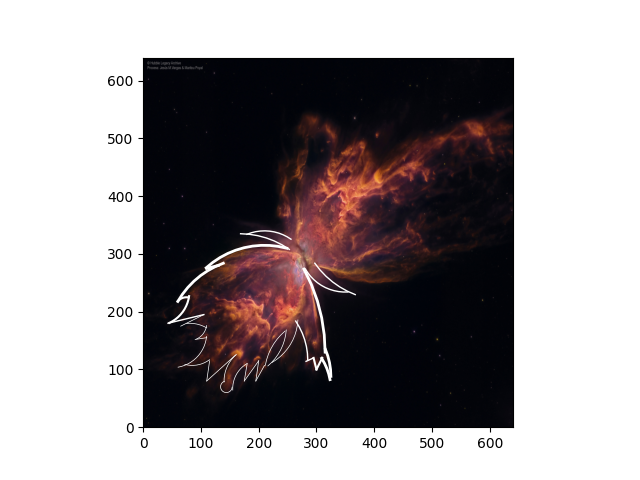
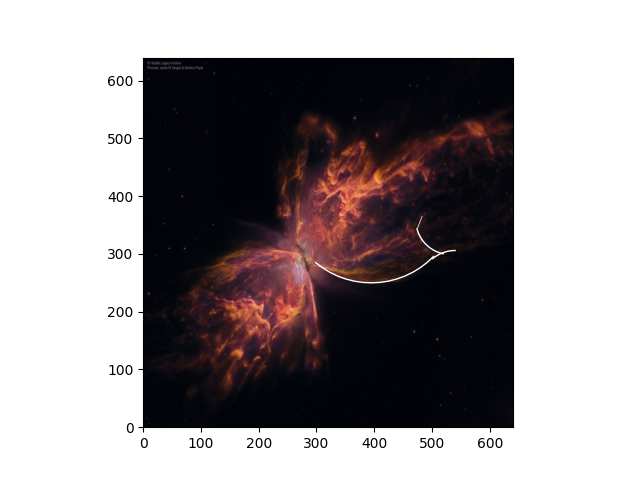
[poiuytred

diff --git a/stage_1/slide_3_paint_on_image.py b/stage_1/slide_3_paint_on_image.py
@@ -12,133 +12,161 @@ def circle(R, x0, y0, starst, stop, step):
     y = y0 + R * np.sin(t)
     return x, y
 
-coords = circle(150, 420, 370, 43*np.pi/36, 25*np.pi/18, 0.1) #нижняя верхняя часть
+#правое крыло
+
+plt.plot([475, 483], [345, 365], lw=0.5, color='w')
+plt.savefig('slide_2_paint_image.png')
+
+
+
+
+
+
+
+
+
+coords = circle(60, 532, 359, 13*np.pi/12, 13*np.pi/9, 0.1)
 plt.plot(coords[0], coords[1], lw=1, color='w')
 plt.savefig('slide_2_paint_image.png')
 
-coords = circle(80, 350, 314, 7*np.pi/6, 55*np.pi/36, 0.1) #нижняя нижняя часть
+coords = circle(60, 540, 246, np.pi/2, 3*np.pi/4, 0.1)
 plt.plot(coords[0], coords[1], lw=1, color='w')
 plt.savefig('slide_2_paint_image.png')
 
-coords = circle(150, 167, 185, 11*np.pi/36, 19*np.pi/36, 0.1) #верхняя нижняя часть
+coords = circle(150, 395, 400, 23*np.pi/18, 16*np.pi/9, 0.1)
 plt.plot(coords[0], coords[1], lw=1, color='w')
 plt.savefig('slide_2_paint_image.png')
 
-coords = circle(80, 210, 260, 11*np.pi/36, 23*np.pi/36, 0.1) #верхняя верхняя часть
-plt.plot(coords[0], coords[1], lw=1, color='w')
-plt.savefig('slide_2_paint_image.png')
 
-# #левое крыло
-coords = circle(300, 15, 130, 0, np.pi/6, 0.1)
-plt.plot(coords[0], coords[1], lw=2, color='w')
-plt.savefig('slide_2_paint_image.png')
 
-coords = circle(120, 205, 88, 0, 5*np.pi/36, 0.1)
-plt.plot(coords[0], coords[1], lw=2, color='w')
-plt.savefig('slide_2_paint_image.png')
 
-coords = circle(100, 225, 65, np.pi/18, 7*np.pi/36, 0.1)
-plt.plot(coords[0], coords[1], lw=2, color='w')
-plt.savefig('slide_2_paint_image.png')
+# coords = circle(150, 420, 370, 43*np.pi/36, 25*np.pi/18, 0.1) #нижняя верхняя часть
+# plt.plot(coords[0], coords[1], lw=1, color='w')
+# plt.savefig('slide_2_paint_image.png')
 
-plt.plot([300, 310], [100, 120], lw=1.5, color='w')
-plt.savefig('slide_2_paint_image.png')
+# coords = circle(80, 350, 314, 7*np.pi/6, 55*np.pi/36, 0.1) #нижняя нижняя часть
+# plt.plot(coords[0], coords[1], lw=1, color='w')
+# plt.savefig('slide_2_paint_image.png')
 
-plt.plot([295, 300], [120, 100], lw=1.5, color='w')
-plt.savefig('slide_2_paint_image.png')
+# coords = circle(150, 167, 185, 11*np.pi/36, 19*np.pi/36, 0.1) #верхняя нижняя часть
+# plt.plot(coords[0], coords[1], lw=1, color='w')
+# plt.savefig('slide_2_paint_image.png')
 
-plt.plot([282, 295], [114, 120], lw=1, color='w')
-plt.savefig('slide_2_paint_image.png')
+# coords = circle(80, 210, 260, 11*np.pi/36, 23*np.pi/36, 0.1) #верхняя верхняя часть
+# plt.plot(coords[0], coords[1], lw=1, color='w')
+# plt.savefig('slide_2_paint_image.png')
 
-coords = circle(120, 165, 116, 0, 7*np.pi/36, 0.1)
-plt.plot(coords[0], coords[1], lw=1, color='w')
-plt.savefig('slide_2_paint_image.png')
+# # #левое крыло
+# coords = circle(300, 15, 130, 0, np.pi/6, 0.1)
+# plt.plot(coords[0], coords[1], lw=2, color='w')
+# plt.savefig('slide_2_paint_image.png')
 
-coords = circle(90, 178, 190, 5*np.pi/3, 2*np.pi, 0.1)
-plt.plot(coords[0], coords[1], lw=0.5, color='w')
-plt.savefig('slide_2_paint_image.png')
+# coords = circle(120, 205, 88, 0, 5*np.pi/36, 0.1)
+# plt.plot(coords[0], coords[1], lw=2, color='w')
+# plt.savefig('slide_2_paint_image.png')
 
-coords = circle(90, 158, 175, 31*np.pi/18, 2*np.pi, 0.1)
-plt.plot(coords[0], coords[1], lw=0.5, color='w')
-plt.savefig('slide_2_paint_image.png')
+# coords = circle(100, 225, 65, np.pi/18, 7*np.pi/36, 0.1)
+# plt.plot(coords[0], coords[1], lw=2, color='w')
+# plt.savefig('slide_2_paint_image.png')
 
-coords = circle(100, 310, 90, 13*np.pi/18, 35*np.pi/36, 0.1)
-plt.plot(coords[0], coords[1], lw=0.5, color='w')
-plt.savefig('slide_2_paint_image.png')
+# plt.plot([300, 310], [100, 120], lw=1.5, color='w')
+# plt.savefig('slide_2_paint_image.png')
 
-plt.plot([195, 210], [80, 107], lw=0.5, color='w')
-plt.savefig('slide_2_paint_image.png')
+# plt.plot([295, 300], [120, 100], lw=1.5, color='w')
+# plt.savefig('slide_2_paint_image.png')
 
-plt.plot([200, 195], [115, 80], lw=0.5, color='w')
-plt.savefig('slide_2_paint_image.png')
+# plt.plot([282, 295], [114, 120], lw=1, color='w')
+# plt.savefig('slide_2_paint_image.png')
 
-plt.plot([175, 200], [80, 115], lw=0.5, color='w')
-plt.savefig('slide_2_paint_image.png')
+# coords = circle(120, 165, 116, 0, 7*np.pi/36, 0.1)
+# plt.plot(coords[0], coords[1], lw=1, color='w')
+# plt.savefig('slide_2_paint_image.png')
 
-plt.plot([180, 175], [110, 80], lw=0.5, color='w')
-plt.savefig('slide_2_paint_image.png')
+# coords = circle(90, 178, 190, 5*np.pi/3, 2*np.pi, 0.1)
+# plt.plot(coords[0], coords[1], lw=0.5, color='w')
+# plt.savefig('slide_2_paint_image.png')
 
-coords = circle(10, 144, 70, 11*np.pi/18, 2*np.pi, 0.1)
-plt.plot(coords[0], coords[1], lw=0.5, color='w')
-plt.savefig('slide_2_paint_image.png')
+# coords = circle(90, 158, 175, 31*np.pi/18, 2*np.pi, 0.1)
+# plt.plot(coords[0], coords[1], lw=0.5, color='w')
+# plt.savefig('slide_2_paint_image.png')
 
-coords = circle(50, 205, 67, 2*np.pi/3, 37*np.pi/36, 0.1)
-plt.plot(coords[0], coords[1], lw=0.5, color='w')
-plt.savefig('slide_2_paint_image.png')
+# coords = circle(100, 310, 90, 13*np.pi/18, 35*np.pi/36, 0.1)
+# plt.plot(coords[0], coords[1], lw=0.5, color='w')
+# plt.savefig('slide_2_paint_image.png')
 
-coords = circle(60, 200, 80, 13*np.pi/18, 37*np.pi/36, 0.1)
-plt.plot(coords[0], coords[1], lw=0.5, color='w')
-plt.savefig('slide_2_paint_image.png')
+# plt.plot([195, 210], [80, 107], lw=0.5, color='w')
+# plt.savefig('slide_2_paint_image.png')
 
-plt.plot([110, 160], [80, 125], lw=0.5, color='w')
-plt.savefig('slide_2_paint_image.png')
+# plt.plot([200, 195], [115, 80], lw=0.5, color='w')
+# plt.savefig('slide_2_paint_image.png')
 
-plt.plot([115, 110], [115, 80], lw=0.5, color='w')
-plt.savefig('slide_2_paint_image.png')
+# plt.plot([175, 200], [80, 115], lw=0.5, color='w')
+# plt.savefig('slide_2_paint_image.png')
 
-coords = circle(50, 85, 157, 17*np.pi/12, 31*np.pi/18, 0.1)
-plt.plot(coords[0], coords[1], lw=0.5, color='w')
-plt.savefig('slide_2_paint_image.png')
+# plt.plot([180, 175], [110, 80], lw=0.5, color='w')
+# plt.savefig('slide_2_paint_image.png')
 
-coords = circle(60, 50, 163, 14*np.pi/9, 71*np.pi/36, 0.1)
-plt.plot(coords[0], coords[1], lw=0.5, color='w')
-plt.savefig('slide_2_paint_image.png')
+# coords = circle(10, 144, 70, 11*np.pi/18, 2*np.pi, 0.1)
+# plt.plot(coords[0], coords[1], lw=0.5, color='w')
+# plt.savefig('slide_2_paint_image.png')
 
-plt.plot([90, 110], [152, 155], lw=0.5, color='w')
-plt.savefig('slide_2_paint_image.png')
+# coords = circle(50, 205, 67, 2*np.pi/3, 37*np.pi/36, 0.1)
+# plt.plot(coords[0], coords[1], lw=0.5, color='w')
+# plt.savefig('slide_2_paint_image.png')
 
-coords = circle(30, 80, 180, 59*np.pi/36, 71*np.pi/36, 0.1)
-plt.plot(coords[0], coords[1], lw=0.5, color='w')
-plt.savefig('slide_2_paint_image.png')
+# coords = circle(60, 200, 80, 13*np.pi/18, 37*np.pi/36, 0.1)
+# plt.plot(coords[0], coords[1], lw=0.5, color='w')
+# plt.savefig('slide_2_paint_image.png')
 
-coords = circle(60, 80, 120, np.pi/3, 5*np.pi/9, 0.1)
-plt.plot(coords[0], coords[1], lw=0.5, color='w')
-plt.savefig('slide_2_paint_image.png')
+# plt.plot([110, 160], [80, 125], lw=0.5, color='w')
+# plt.savefig('slide_2_paint_image.png')
 
-plt.plot([105, 65], [195, 175], lw=0.5, color='w')
-plt.savefig('slide_2_paint_image.png')
+# plt.plot([115, 110], [115, 80], lw=0.5, color='w')
+# plt.savefig('slide_2_paint_image.png')
 
-plt.plot([43, 105], [180, 195], lw=1, color='w')
-plt.savefig('slide_2_paint_image.png')
+# coords = circle(50, 85, 157, 17*np.pi/12, 31*np.pi/18, 0.1)
+# plt.plot(coords[0], coords[1], lw=0.5, color='w')
+# plt.savefig('slide_2_paint_image.png')
 
-coords = circle(60, 20, 235, 59*np.pi/36, 71*np.pi/36, 0.1)
-plt.plot(coords[0], coords[1], lw=1.5, color='w')
-plt.savefig('slide_2_paint_image.png')
+# coords = circle(60, 50, 163, 14*np.pi/9, 71*np.pi/36, 0.1)
+# plt.plot(coords[0], coords[1], lw=0.5, color='w')
+# plt.savefig('slide_2_paint_image.png')
 
-coords = circle(20, 75, 205, 4*np.pi/9, 7*np.pi/9, 0.1)
-plt.plot(coords[0], coords[1], lw=1.5, color='w')
-plt.savefig('slide_2_paint_image.png')
+# plt.plot([90, 110], [152, 155], lw=0.5, color='w')
+# plt.savefig('slide_2_paint_image.png')
 
-coords = circle(150, 190, 143, 11*np.pi/18, 31*np.pi/36, 0.1)
-plt.plot(coords[0], coords[1], lw=2, color='w')
-plt.savefig('slide_2_paint_image.png')
+# coords = circle(30, 80, 180, 59*np.pi/36, 71*np.pi/36, 0.1)
+# plt.plot(coords[0], coords[1], lw=0.5, color='w')
+# plt.savefig('slide_2_paint_image.png')
 
-plt.plot([110, 130], [275, 280], lw=2, color='w')
-plt.savefig('slide_2_paint_image.png')
+# coords = circle(60, 80, 120, np.pi/3, 5*np.pi/9, 0.1)
+# plt.plot(coords[0], coords[1], lw=0.5, color='w')
+# plt.savefig('slide_2_paint_image.png')
 
-coords = circle(150, 210, 165, 5*np.pi/12, 3*np.pi/4, 0.1)
-plt.plot(coords[0], coords[1], lw=2, color='w')
-plt.savefig('slide_2_paint_image.png')
+# plt.plot([105, 65], [195, 175], lw=0.5, color='w')
+# plt.savefig('slide_2_paint_image.png')
+
+# plt.plot([43, 105], [180, 195], lw=1, color='w')
+# plt.savefig('slide_2_paint_image.png')
+
+# coords = circle(60, 20, 235, 59*np.pi/36, 71*np.pi/36, 0.1)
+# plt.plot(coords[0], coords[1], lw=1.5, color='w')
+# plt.savefig('slide_2_paint_image.png')
+
+# coords = circle(20, 75, 205, 4*np.pi/9, 7*np.pi/9, 0.1)
+# plt.plot(coords[0], coords[1], lw=1.5, color='w')
+# plt.savefig('slide_2_paint_image.png')
+
+# coords = circle(150, 190, 143, 11*np.pi/18, 31*np.pi/36, 0.1)
+# plt.plot(coords[0], coords[1], lw=2, color='w')
+# plt.savefig('slide_2_paint_image.png')
+
+# plt.plot([110, 130], [275, 280], lw=2, color='w')
+# plt.savefig('slide_2_paint_image.png')
+
+# coords = circle(150, 210, 165, 5*np.pi/12, 3*np.pi/4, 0.1)
+# plt.plot(coords[0], coords[1], lw=2, color='w')
+# plt.savefig('slide_2_paint_image.png')
 
 
 
